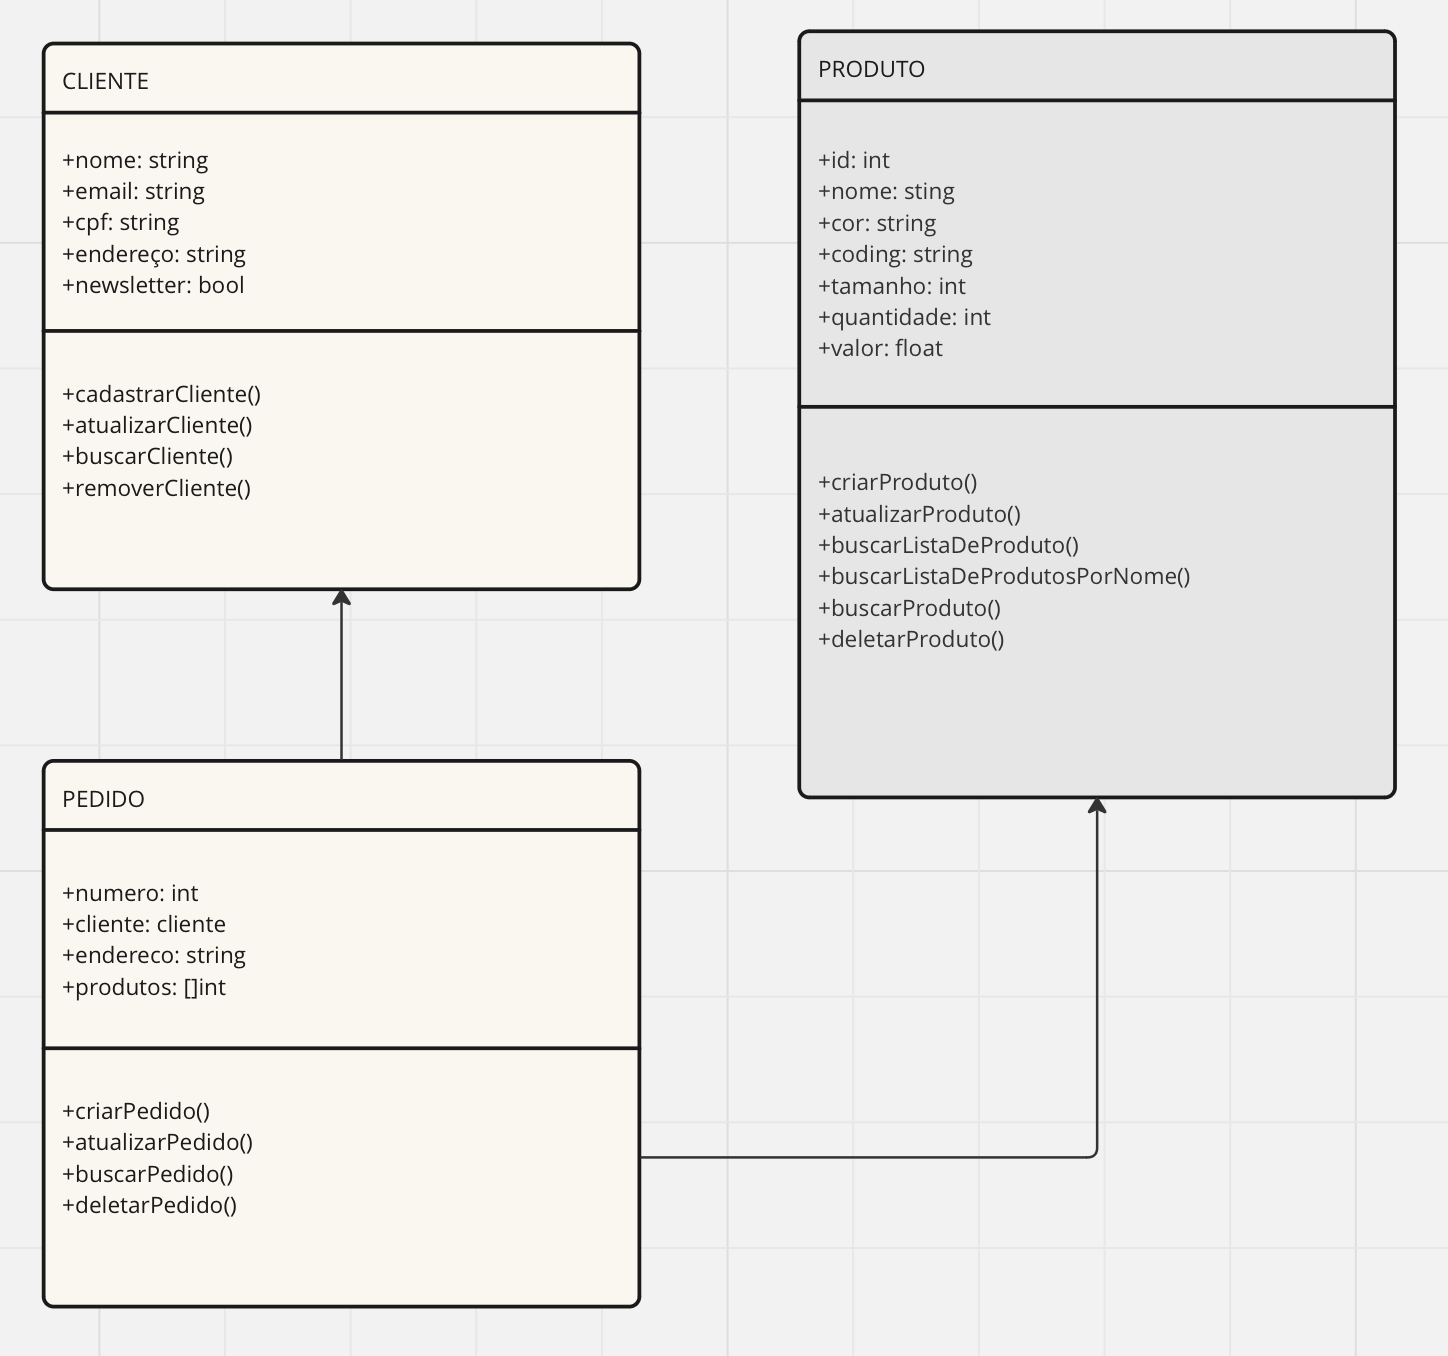
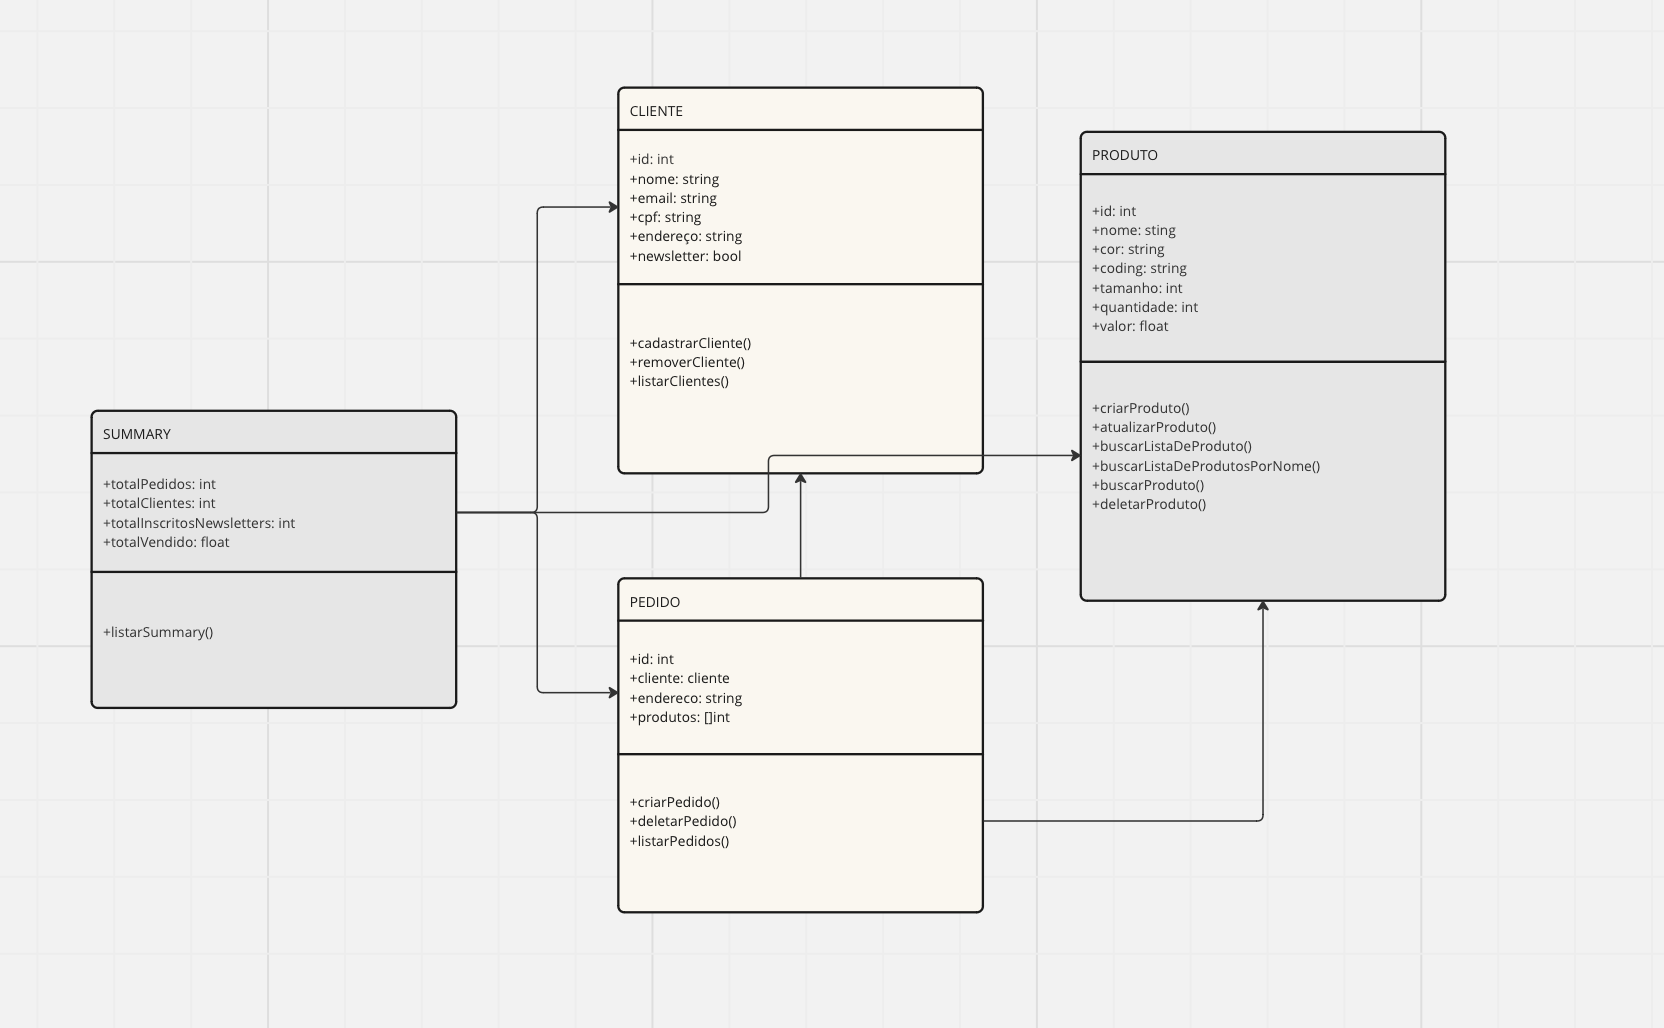
fix: adjust uml diagram

diff --git a/main.go b/main.go
@@ -7,9 +7,6 @@ import (
 	"github.com/nellystanford/banco_de_dados/http"
 )
 
-// verificacoes necessarias: se cpf ja existe ao criar cliente e se produto ja existe
-// atualizar diagrama uml
-
 func main() {
 	db := connectWithDatabase()
 	http.Routes(db)
